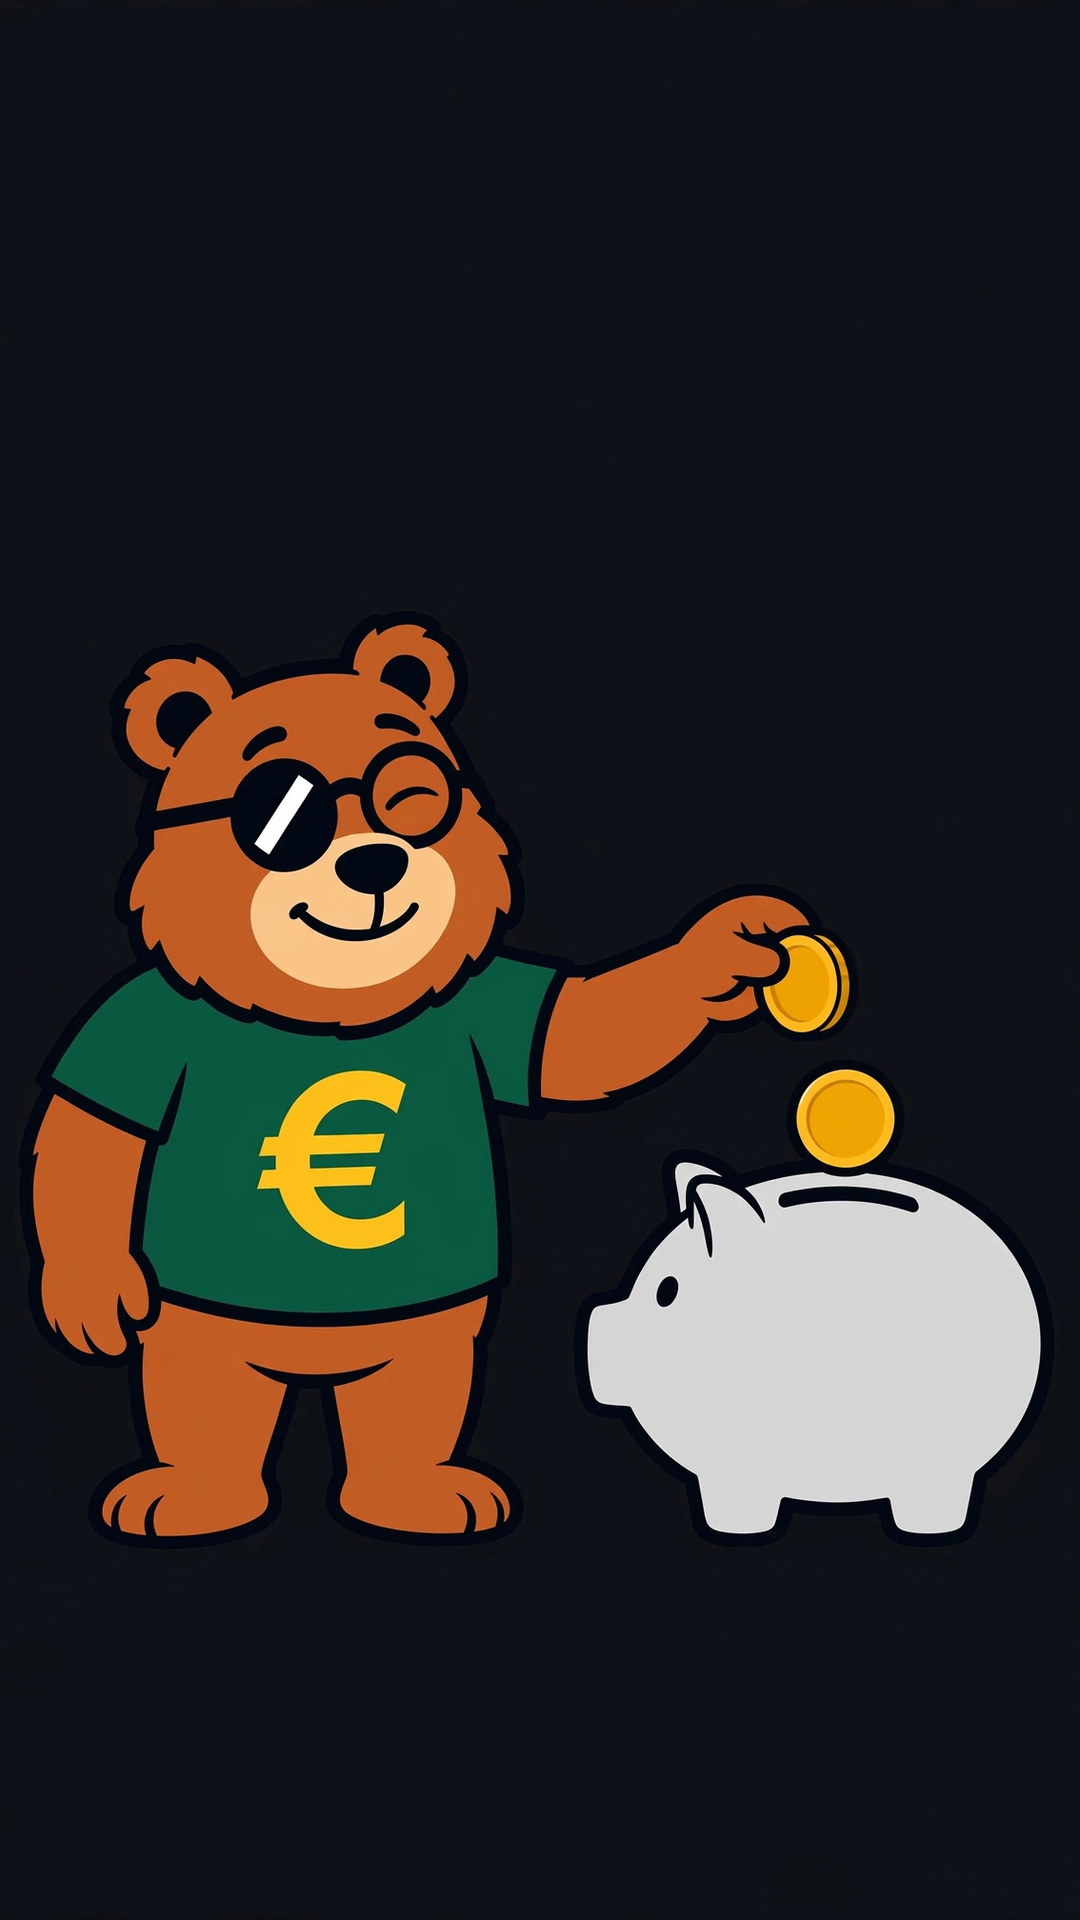
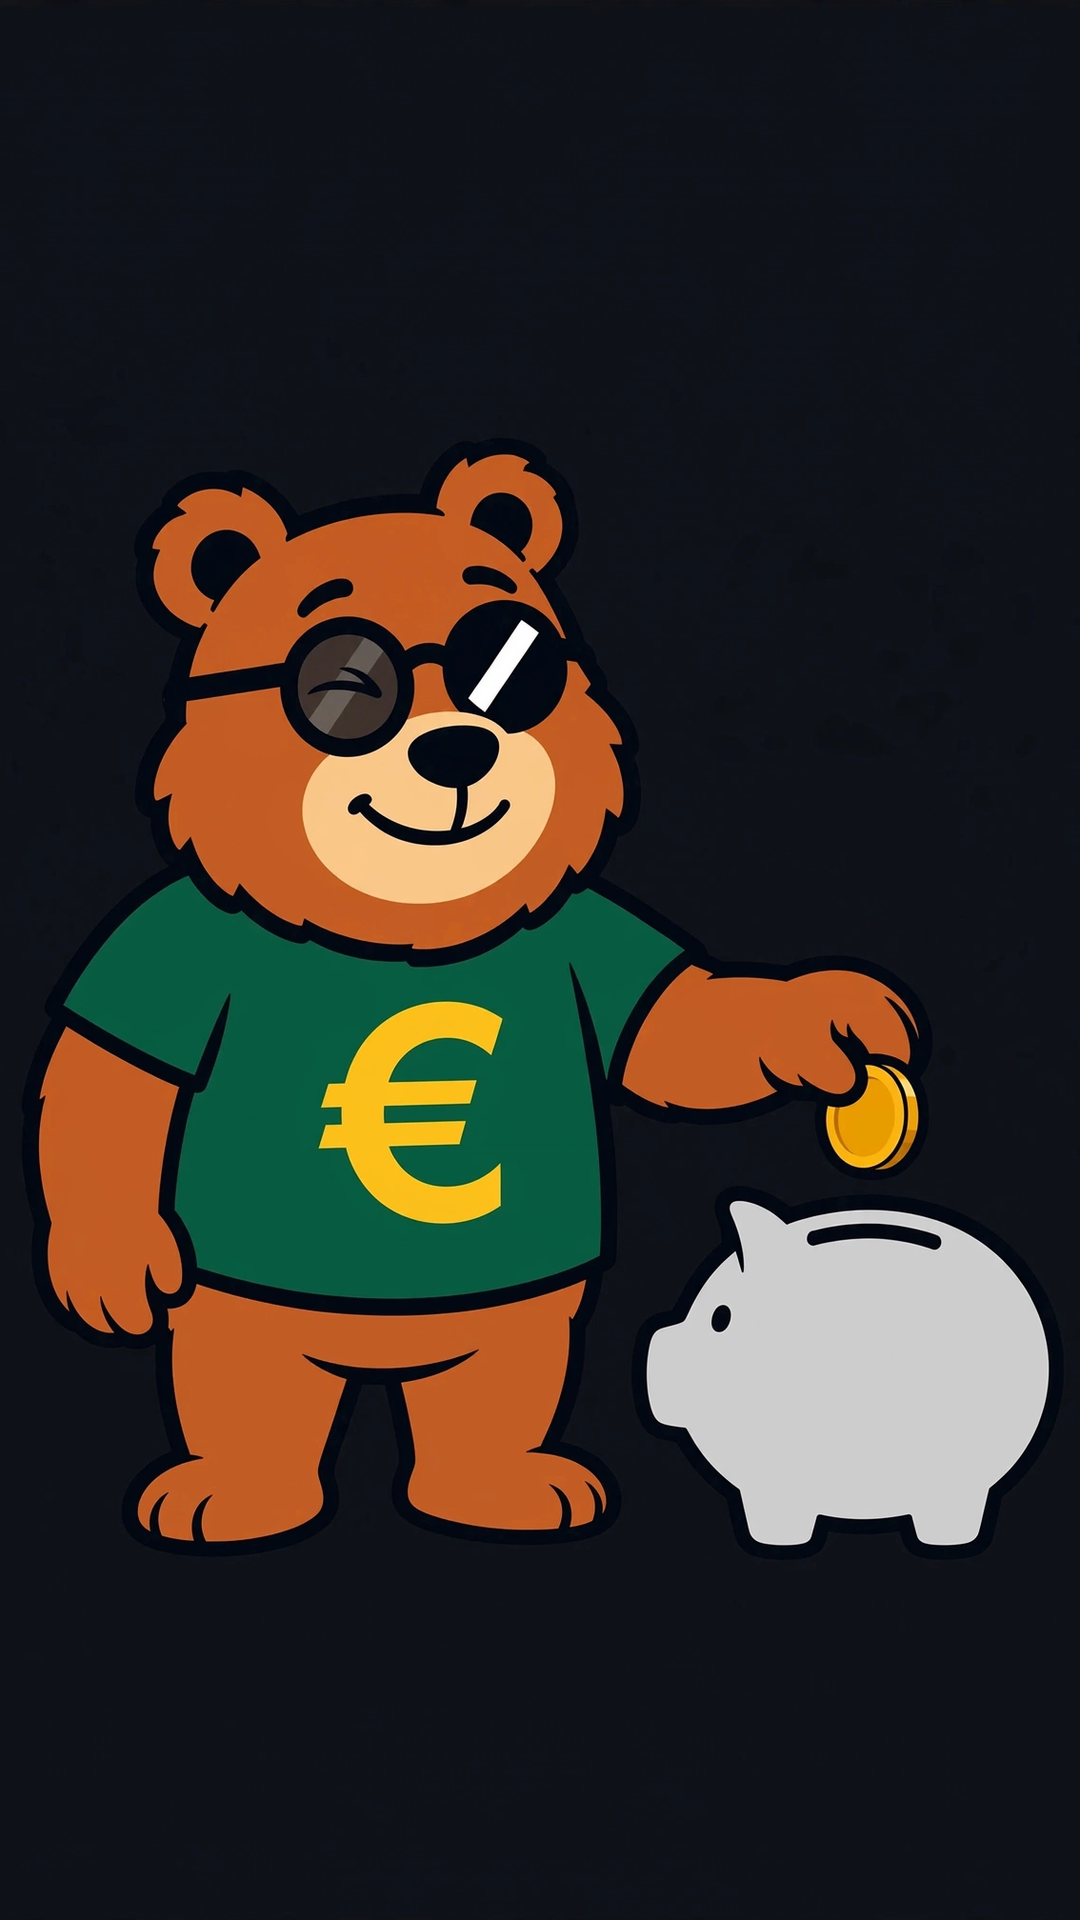
TikTok risparmio quotidiano: rifatta l'immagine 08 con lente fumé sull'occhiolino
La lente dell'occhio che strizza ora è scura semitrasparente e lascia vedere
l'occhio chiuso; l'altra lente resta nera piena con il riflesso bianco.
Aggiornati anteprima, prompts.json e README.

Claude-Session: https://claude.ai/code/session_01ECNr294qDTUjxGT6q2YG86

Changed region(s): [[0.0306, 0.2188, 0.9472, 0.8125], [0.9472, 0.6875, 0.9778, 0.75]]

diff --git a/brand/tiktok/output/2026-10-risparmio-quotidiano/immagini/README.md b/brand/tiktok/output/2026-10-risparmio-quotidiano/immagini/README.md
@@ -21,7 +21,7 @@ Le 8 illustrazioni del video "consigli pratici per risparmiare nella vita di tut
 | 05 | carta | Tip 1 abbonamenti: orso con smartphone (icone tonde astratte) e indice alzato; grandi forbici ambra tagliano a metà una tessera grigia | 2° |
 | 06 | carta | Tip 2 lista della spesa: orso con foglio a righe e matita ambra, carrello grigio e scaffali grigi sullo sfondo | 3° |
 | 07 | carta | Tip 3 luce e gas: bilancia grigia con due fogli a righe (lampadina ambra / fiammella ambra), orso pensieroso con mano al mento | 3° |
-| 08 | inchiostro | Orso con occhiolino (occhio chiuso visibile nella lente) che infila una moneta ambra in un salvadanaio grigio; spazio libero in alto a destra | 2° |
+| 08 | inchiostro | Orso con occhiolino: la lente dell'occhio che strizza è scura semitrasparente e lascia vedere l'occhio chiuso, l'altra è nera piena con riflesso; infila una moneta ambra in un salvadanaio grigio; spazio libero in alto a destra | 3° (rifatta, vedi sotto) |
 
 Nessun rosso, nessun verde oltre alla maglietta dell'orso, unico accento ambra (`#E9A400`), nessuna scritta/lettera/numero.
 
@@ -54,6 +54,8 @@ Struttura del prompt: `Vertical 9:16 illustration…` + [ORSO] + [STILE] + `Scen
 
 01-04 riuscite al primo tentativo.
 
+**08 rifatta (seconda revisione):** nella versione precedente l'occhiolino non si leggeva bene. Richiesta: la lente dell'occhio che strizza deve essere **nera ma trasparente** (lente scura semitrasparente) così che si veda l'occhio chiuso, mentre l'altra resta nera piena con il riflesso bianco diagonale. Al prompt è stata aggiunta, in modo esplicito e ripetuto, la descrizione "see-through dark tinted lens (black outline, translucent dark tint) so the closed, winking eye with a curved lid line is clearly visible through the lens; the other lens stays solid black with the white diagonal glare" (e tolto "eyes never visible" dalla scheda dell'orso, solo per questa immagine). Stessi riferimenti (`mascotte-principale.jpg` + `espressioni.jpg`). **1 tentativo**, riuscito al primo colpo: controllato anche ingrandito sul volto (lente fumé con l'occhio chiuso a linea curva visibile, altra lente nera piena con riflesso, occhiali tondi riconoscibili). Rigenerata anche `anteprima.jpg`.
+
 ## Controlli fatti
 
 Ogni immagine guardata intera e, per scontrini e fogli, anche ingrandita: nessuna scritta o cifra, solo righe grigie. Fondo misurato sui bordi e ingombro verticale del contenuto (percentuale dell'altezza, dall'alto):
@@ -67,7 +69,7 @@ Ogni immagine guardata intera e, per scontrini e fogli, anche ingrandita: nessun
 | 05 | `#F4F1EA` | 14,3% – 87,2% |
 | 06 | `#F4F1E9` | 26,9% – 76,8% |
 | 07 | `#F4F1E9` | 39,9% – 87,0% |
-| 08 | `#0E1218` | 32,4% – 80,1% |
+| 08 | `#0E1218` | 23,6% – 80,5% |
 
 Fascia alta (10%) libera in tutte.
 
@@ -80,7 +82,7 @@ Fascia alta (10%) libera in tutte.
 - **06**: l'orso non sta scrivendo sul foglio: tiene il foglio in una zampa e la matita alzata nell'altra (si legge come "ho fatto la lista"). Le versioni in cui scriveva coprivano la €.
 - **07**: la bilancia è un po' inclinata (non in pari); funziona comunque come "confronto tra due offerte". Lampadina e fiammella sono piccole.
 - **02**: l'orso è più grande di "piccolo a lato" (circa metà altezza), e la linea del pavimento è irregolare.
-- **08**: due monete (una in mano, una sopra la fessura), si legge come la moneta che cade.
+- **08**: l'orso è un po' più grande della versione precedente (testa dal 23,6% dell'altezza), ma l'angolo in alto a destra resta vuoto per il fumetto. La linea dell'occhio chiuso nella lente scura è sottile: si legge bene a schermo intero, meno nelle miniature.
 
 **Coerenza dell'orso:** in tutte e 8 le immagini l'orso è riconoscibile e coerente con `mascotte-principale.jpg`: pelliccia ramata, muso pesca, naso nero con linea, occhiali tondi neri con riflesso bianco diagonale, maglietta verde scuro con € gialla al centro del petto e visibile, contorno nero spesso. Le proporzioni cambiano leggermente tra mezzo busto e figura intera (più tozzo nella 05).
 
